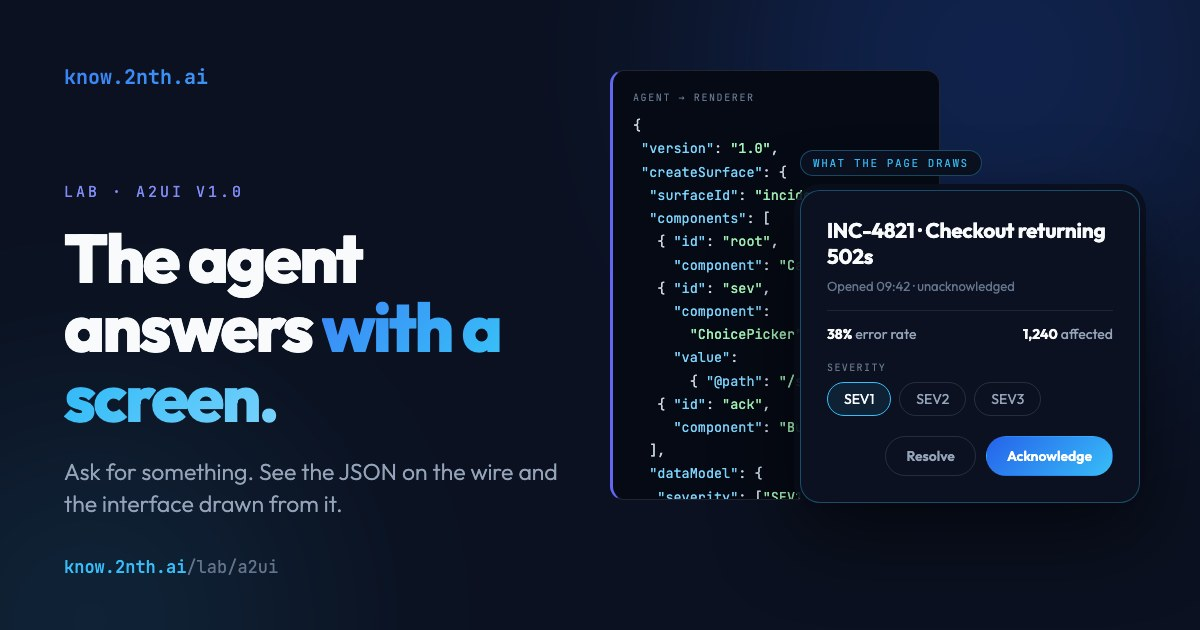
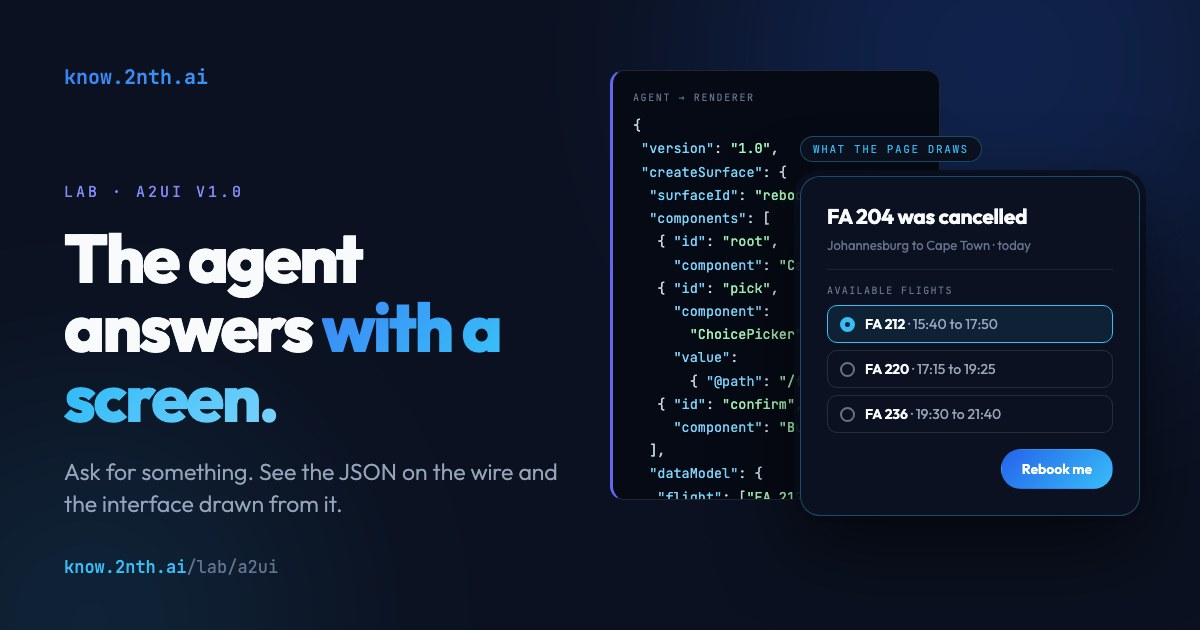
Lab A2UI: share image uses the flight rebooking example (#174)

diff --git a/scripts/og-a2ui.html b/scripts/og-a2ui.html
@@ -15,7 +15,7 @@ h1 span{background:linear-gradient(135deg,#3B82F6,#38BDF8,#7DD3FC);-webkit-backg
 .code{position:absolute;left:610px;top:70px;width:330px;height:430px;background:#060A14;border:1px solid rgba(148,163,184,.18);border-left:3px solid #6366F1;border-radius:14px;padding:18px 20px;font-family:'JetBrains Mono',monospace;font-size:13.5px;line-height:1.72;color:#CBD5E1;white-space:pre;overflow:hidden}
 .code .h{font-size:10px;letter-spacing:1.6px;color:#64748B;margin-bottom:8px;display:block}
 .k{color:#7DD3FC}.s{color:#A5F3B8}
-.card{position:absolute;left:800px;top:190px;width:340px;background:#0B1120;border:1px solid rgba(56,189,248,.35);border-radius:20px;padding:26px;box-shadow:0 30px 80px rgba(0,0,0,.6),0 0 0 6px rgba(11,17,32,.9)}
+.card{position:absolute;left:800px;top:176px;width:340px;background:#0B1120;border:1px solid rgba(56,189,248,.35);border-radius:20px;padding:26px;box-shadow:0 30px 80px rgba(0,0,0,.6),0 0 0 6px rgba(11,17,32,.9)}
 .card .t{font-size:21px;font-weight:700;letter-spacing:-.3px;line-height:1.25}
 .card .c{font-size:13px;color:#64748B;margin:8px 0 16px}
 .stats{display:flex;justify-content:space-between;font-size:14px;color:#94A3B8;padding:14px 0;border-top:1px solid rgba(148,163,184,.14)}
@@ -27,7 +27,8 @@ h1 span{background:linear-gradient(135deg,#3B82F6,#38BDF8,#7DD3FC);-webkit-backg
 .btns{display:flex;justify-content:flex-end;gap:10px}
 .btn{font-size:14px;font-weight:600;padding:10px 20px;border-radius:100px;border:1px solid rgba(148,163,184,.2);color:#94A3B8}
 .btn.p{background:linear-gradient(135deg,#2563EB,#38BDF8);border-color:transparent;color:#fff}
-.tag{position:absolute;left:800px;top:150px;background:#0B1120;border:1px solid rgba(56,189,248,.35);border-radius:100px;padding:5px 12px;font-family:'JetBrains Mono',monospace;font-size:11px;letter-spacing:1.6px;color:#38BDF8;text-transform:uppercase}
+.opt{display:flex;align-items:center;gap:10px;font-size:14px;color:#94A3B8;border:1px solid rgba(148,163,184,.2);border-radius:10px;padding:9px 12px;margin-bottom:7px}.opt b{color:#F8FAFC;font-weight:600}.opt i{width:15px;height:15px;border-radius:50%;border:2px solid #64748B;flex:none}.opt.on{border-color:#38BDF8;background:rgba(56,189,248,.1)}.opt.on i{border:5px solid #38BDF8}
+.tag{position:absolute;left:800px;top:136px;background:#0B1120;border:1px solid rgba(56,189,248,.35);border-radius:100px;padding:5px 12px;font-family:'JetBrains Mono',monospace;font-size:11px;letter-spacing:1.6px;color:#38BDF8;text-transform:uppercase}
 .foot{position:absolute;left:64px;bottom:52px;font-family:'JetBrains Mono',monospace;font-size:17px;color:#64748B}
 .foot b{color:#38BDF8;font-weight:500}
 </style></head><body>
@@ -41,30 +42,31 @@ h1 span{background:linear-gradient(135deg,#3B82F6,#38BDF8,#7DD3FC);-webkit-backg
 <div class="code"><span class="h">AGENT &rarr; RENDERER</span>{
  <span class="k">"version"</span>: <span class="s">"1.0"</span>,
  <span class="k">"createSurface"</span>: {
-  <span class="k">"surfaceId"</span>: <span class="s">"incident"</span>,
+  <span class="k">"surfaceId"</span>: <span class="s">"rebook"</span>,
   <span class="k">"components"</span>: [
    { <span class="k">"id"</span>: <span class="s">"root"</span>,
      <span class="k">"component"</span>: <span class="s">"Card"</span> },
-   { <span class="k">"id"</span>: <span class="s">"sev"</span>,
+   { <span class="k">"id"</span>: <span class="s">"pick"</span>,
      <span class="k">"component"</span>:
        <span class="s">"ChoicePicker"</span>,
      <span class="k">"value"</span>:
-       { <span class="k">"@path"</span>: <span class="s">"/severity"</span> } },
-   { <span class="k">"id"</span>: <span class="s">"ack"</span>,
+       { <span class="k">"@path"</span>: <span class="s">"/flight"</span> } },
+   { <span class="k">"id"</span>: <span class="s">"confirm"</span>,
      <span class="k">"component"</span>: <span class="s">"Button"</span> }
   ],
   <span class="k">"dataModel"</span>: {
-   <span class="k">"severity"</span>: [<span class="s">"SEV1"</span>] }
+   <span class="k">"flight"</span>: [<span class="s">"FA 212"</span>] }
  }
 }</div>
 <div class="tag">What the page draws</div>
 <div class="card">
-  <div class="t">INC-4821 &middot; Checkout returning 502s</div>
-  <div class="c">Opened 09:42 &middot; unacknowledged</div>
-  <div class="stats"><span><b>38%</b> error rate</span><span><b>1,240</b> affected</span></div>
-  <div class="lab">SEVERITY</div>
-  <div class="chips"><span class="chip on">SEV1</span><span class="chip">SEV2</span><span class="chip">SEV3</span></div>
-  <div class="btns"><span class="btn">Resolve</span><span class="btn p">Acknowledge</span></div>
+  <div class="t">FA 204 was cancelled</div>
+  <div class="c">Johannesburg to Cape Town &middot; today</div>
+  <div class="lab" style="padding-top:14px;border-top:1px solid rgba(148,163,184,.14)">AVAILABLE FLIGHTS</div>
+  <div class="opt on"><i></i><span><b>FA 212</b> &middot; 15:40 to 17:50</span></div>
+  <div class="opt"><i></i><span><b>FA 220</b> &middot; 17:15 to 19:25</span></div>
+  <div class="opt"><i></i><span><b>FA 236</b> &middot; 19:30 to 21:40</span></div>
+  <div class="btns" style="margin-top:16px"><span class="btn p">Rebook me</span></div>
 </div>
 <div class="foot"><b>know.2nth.ai</b>/lab/a2ui</div>
 </body></html>

diff --git a/lab/a2ui.html b/lab/a2ui.html
@@ -11,7 +11,7 @@
 <meta property="og:title" content="The agent draws a screen — know.2nth.ai Lab">
 <meta property="og:description" content="Ask an agent for something and watch it reply in A2UI: declarative JSON on the wire, drawn as real cards, pickers and buttons by this page. Press a button and the action goes back to the agent.">
 <meta property="og:image" content="https://know.2nth.ai/lab/og-a2ui.jpg">
-<meta property="og:image:alt" content="An A2UI message beside the incident card a page draws from it">
+<meta property="og:image:alt" content="An A2UI message beside the flight rebooking card a page draws from it">
 <meta property="og:image:type" content="image/jpeg">
 <meta property="og:image:width" content="1200">
 <meta property="og:image:height" content="630">
